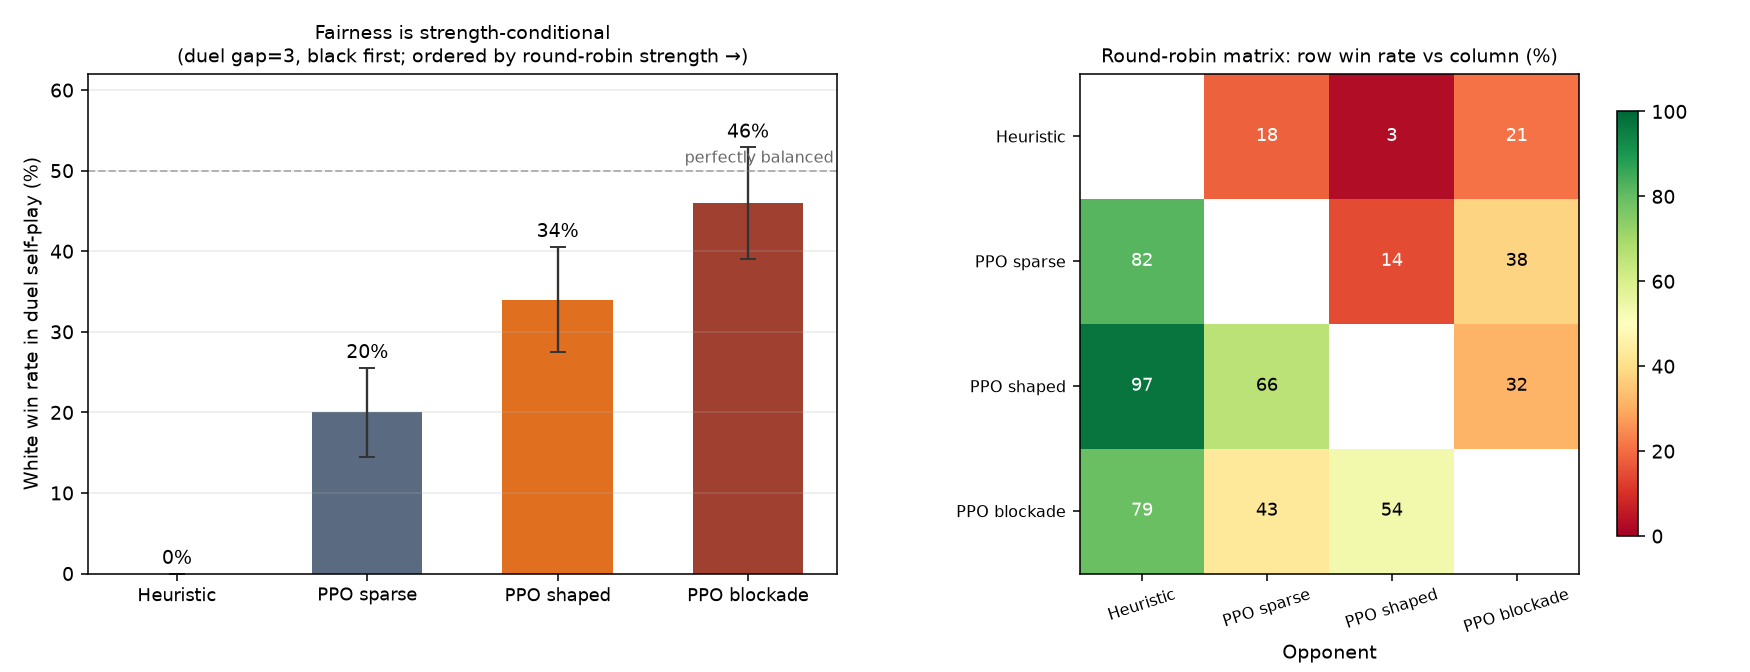
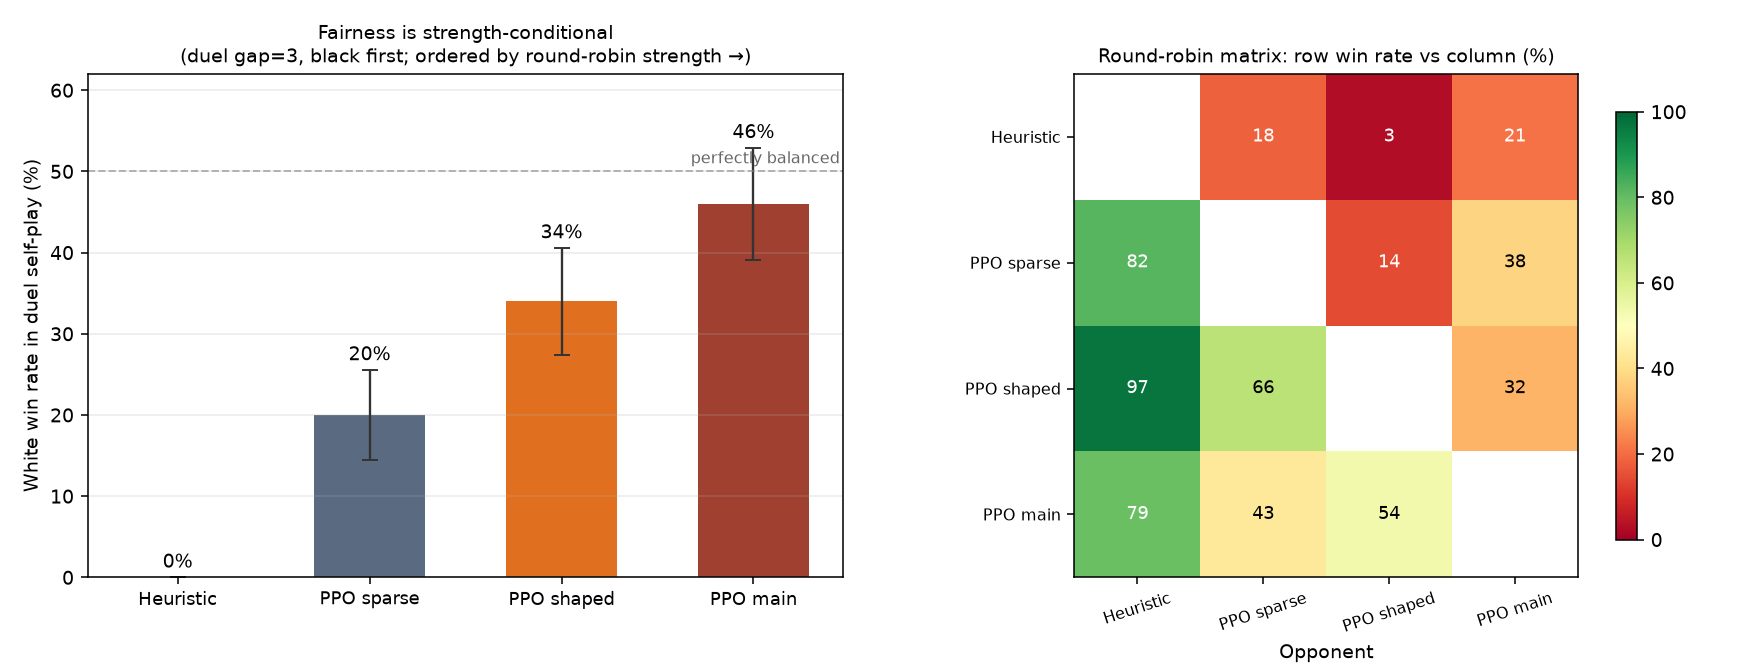
Fix report figures: English strength-fairness chart + real simulator screenshot
- fig_strength_fairness: regenerate with English labels and 4-tier panel; rename PPO blockade to PPO main in plotting script

- Figure 1: replace placeholder size-scan chart with actual simulator screenshot (White on golden south edge, narration bar visible)

- fig_training_dynamics / fig_ablation verified correct against raw logs (phases 0.419/0.672/0.712; 59k/73k to 55%; 0.716 vs 0.709)

- Include pending rename edits to .bat launcher and standalone HTML

diff --git a/python/fig_strength_fairness.py b/python/fig_strength_fairness.py
@@ -10,7 +10,7 @@ import matplotlib.pyplot as plt
 import numpy as np
 
 # 实测数据（200 局自对弈 / 循环赛各 200 局）
-NAMES = ['Heuristic', 'PPO sparse', 'PPO shaped', 'PPO blockade']
+NAMES = ['Heuristic', 'PPO sparse', 'PPO shaped', 'PPO main']
 WHITE_WR = [0.0, 20.0, 34.0, 46.0]          # duel 自对弈白胜率 %
 N_GAMES = [300, 200, 200, 200]
 

diff --git a/report/REPORT.md b/report/REPORT.md
@@ -21,8 +21,7 @@ Each break raises a question no traditional board game has ever had to answer. O
 
 Terraflux is played on a 25×25 board of **pillars** (位柱) — the standing columns whose heights the terrain continually rewrites. White starts from the northern half and wins by reaching the designated victory edge in the south; Black wins by capture — standing adjacent to White on a strictly higher pillar. Players alternate turns, with Black moving first by default. Every move rewrites the terrain around its landing cell: on odd-numbered rounds the cross phase fires (the pillar to the north rises, the one to the south sinks, and those to the east and west are filled solid, becoming impassable); on even-numbered rounds the X phase fires, raising and lowering pillars along the diagonals, and so the cycle continues. Pillars cycle through three states — raised, lowered, filled — and filling is never final: a later phase can always reactivate a filled pillar. Beyond winning and losing there is a third outcome: a draw, triggered when both sides satisfy their respective winning conditions at the same instant. (Other terminal cases — threefold repetition, and a player left with no legal move being declared the loser — are documented in the repository.) The project ships with three kinds of AI agents — a heuristic, an LLM hybrid, and a PPO policy — and a bilingual (Chinese/English) 3D online simulator, in which visitors can watch a narrated demo game in the browser.
 
-![Figure 1. The playable 3D simulator — a narrated demo game runs in the browser](../experiments/fig_size_fairness.png)
-<!-- TODO: 替换为网站截图（3D 棋盘 + 演示解说条），存为 report/fig_screenshot.png 并改上面路径 -->
+![Figure 1. The playable 3D simulator — a narrated demo game in the browser. White has just stepped onto the golden south edge (escape wins); the narration bar at the bottom explains the moment](fig_screenshot.png)
 
 **Table 1. Terraflux in the design space of classic abstract games**
 
